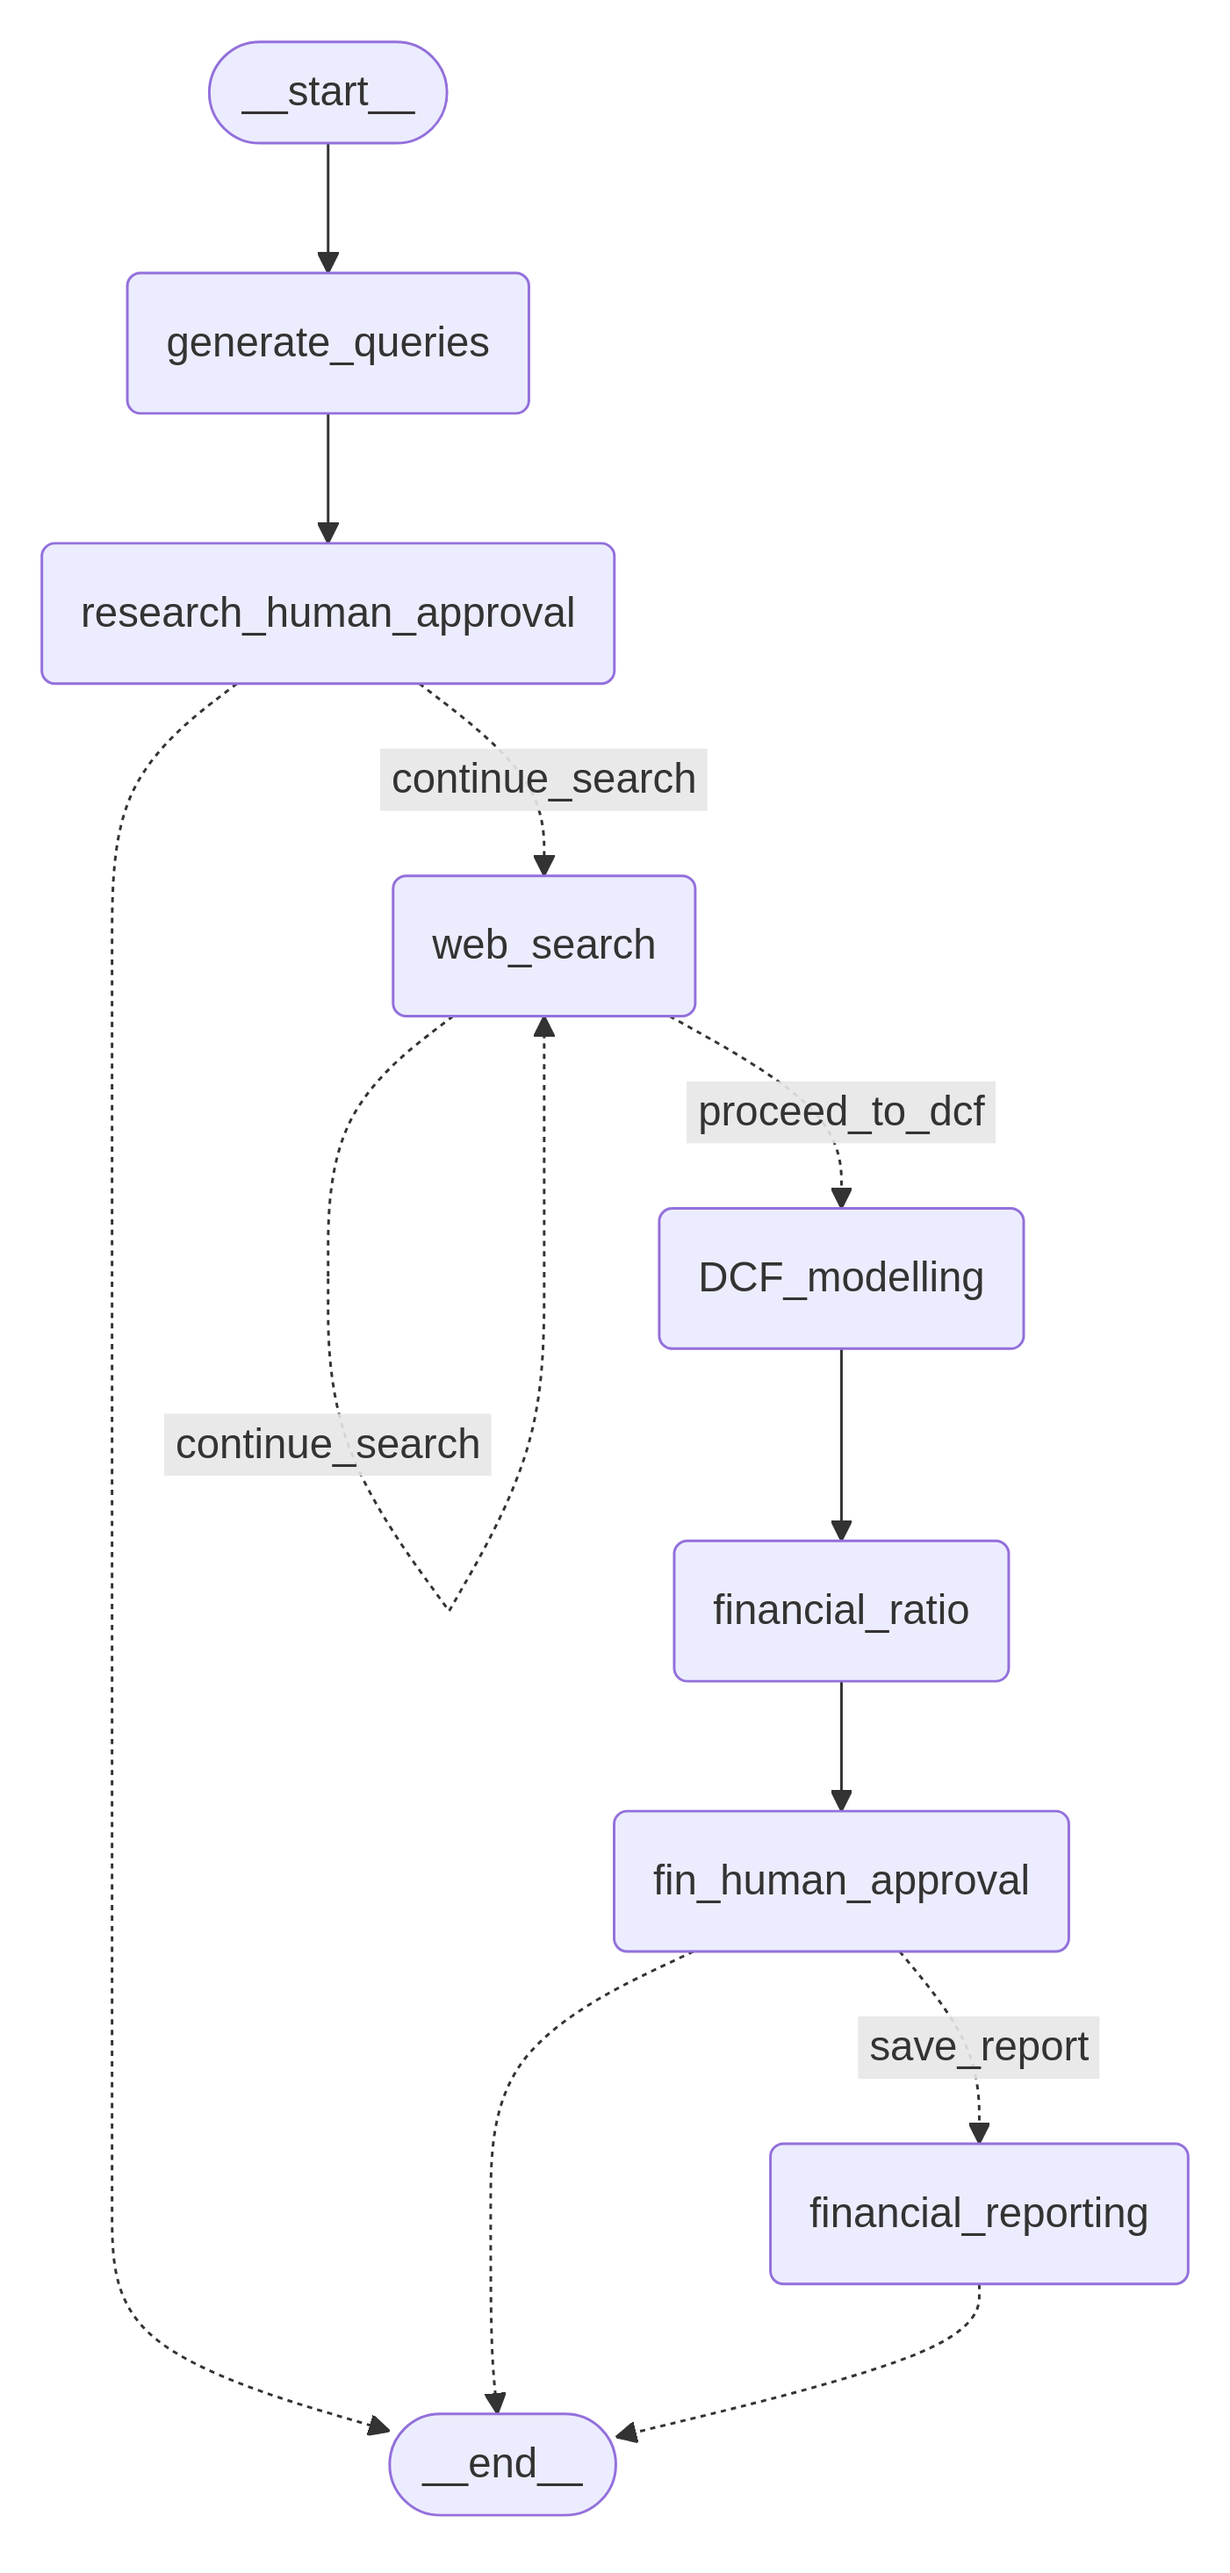
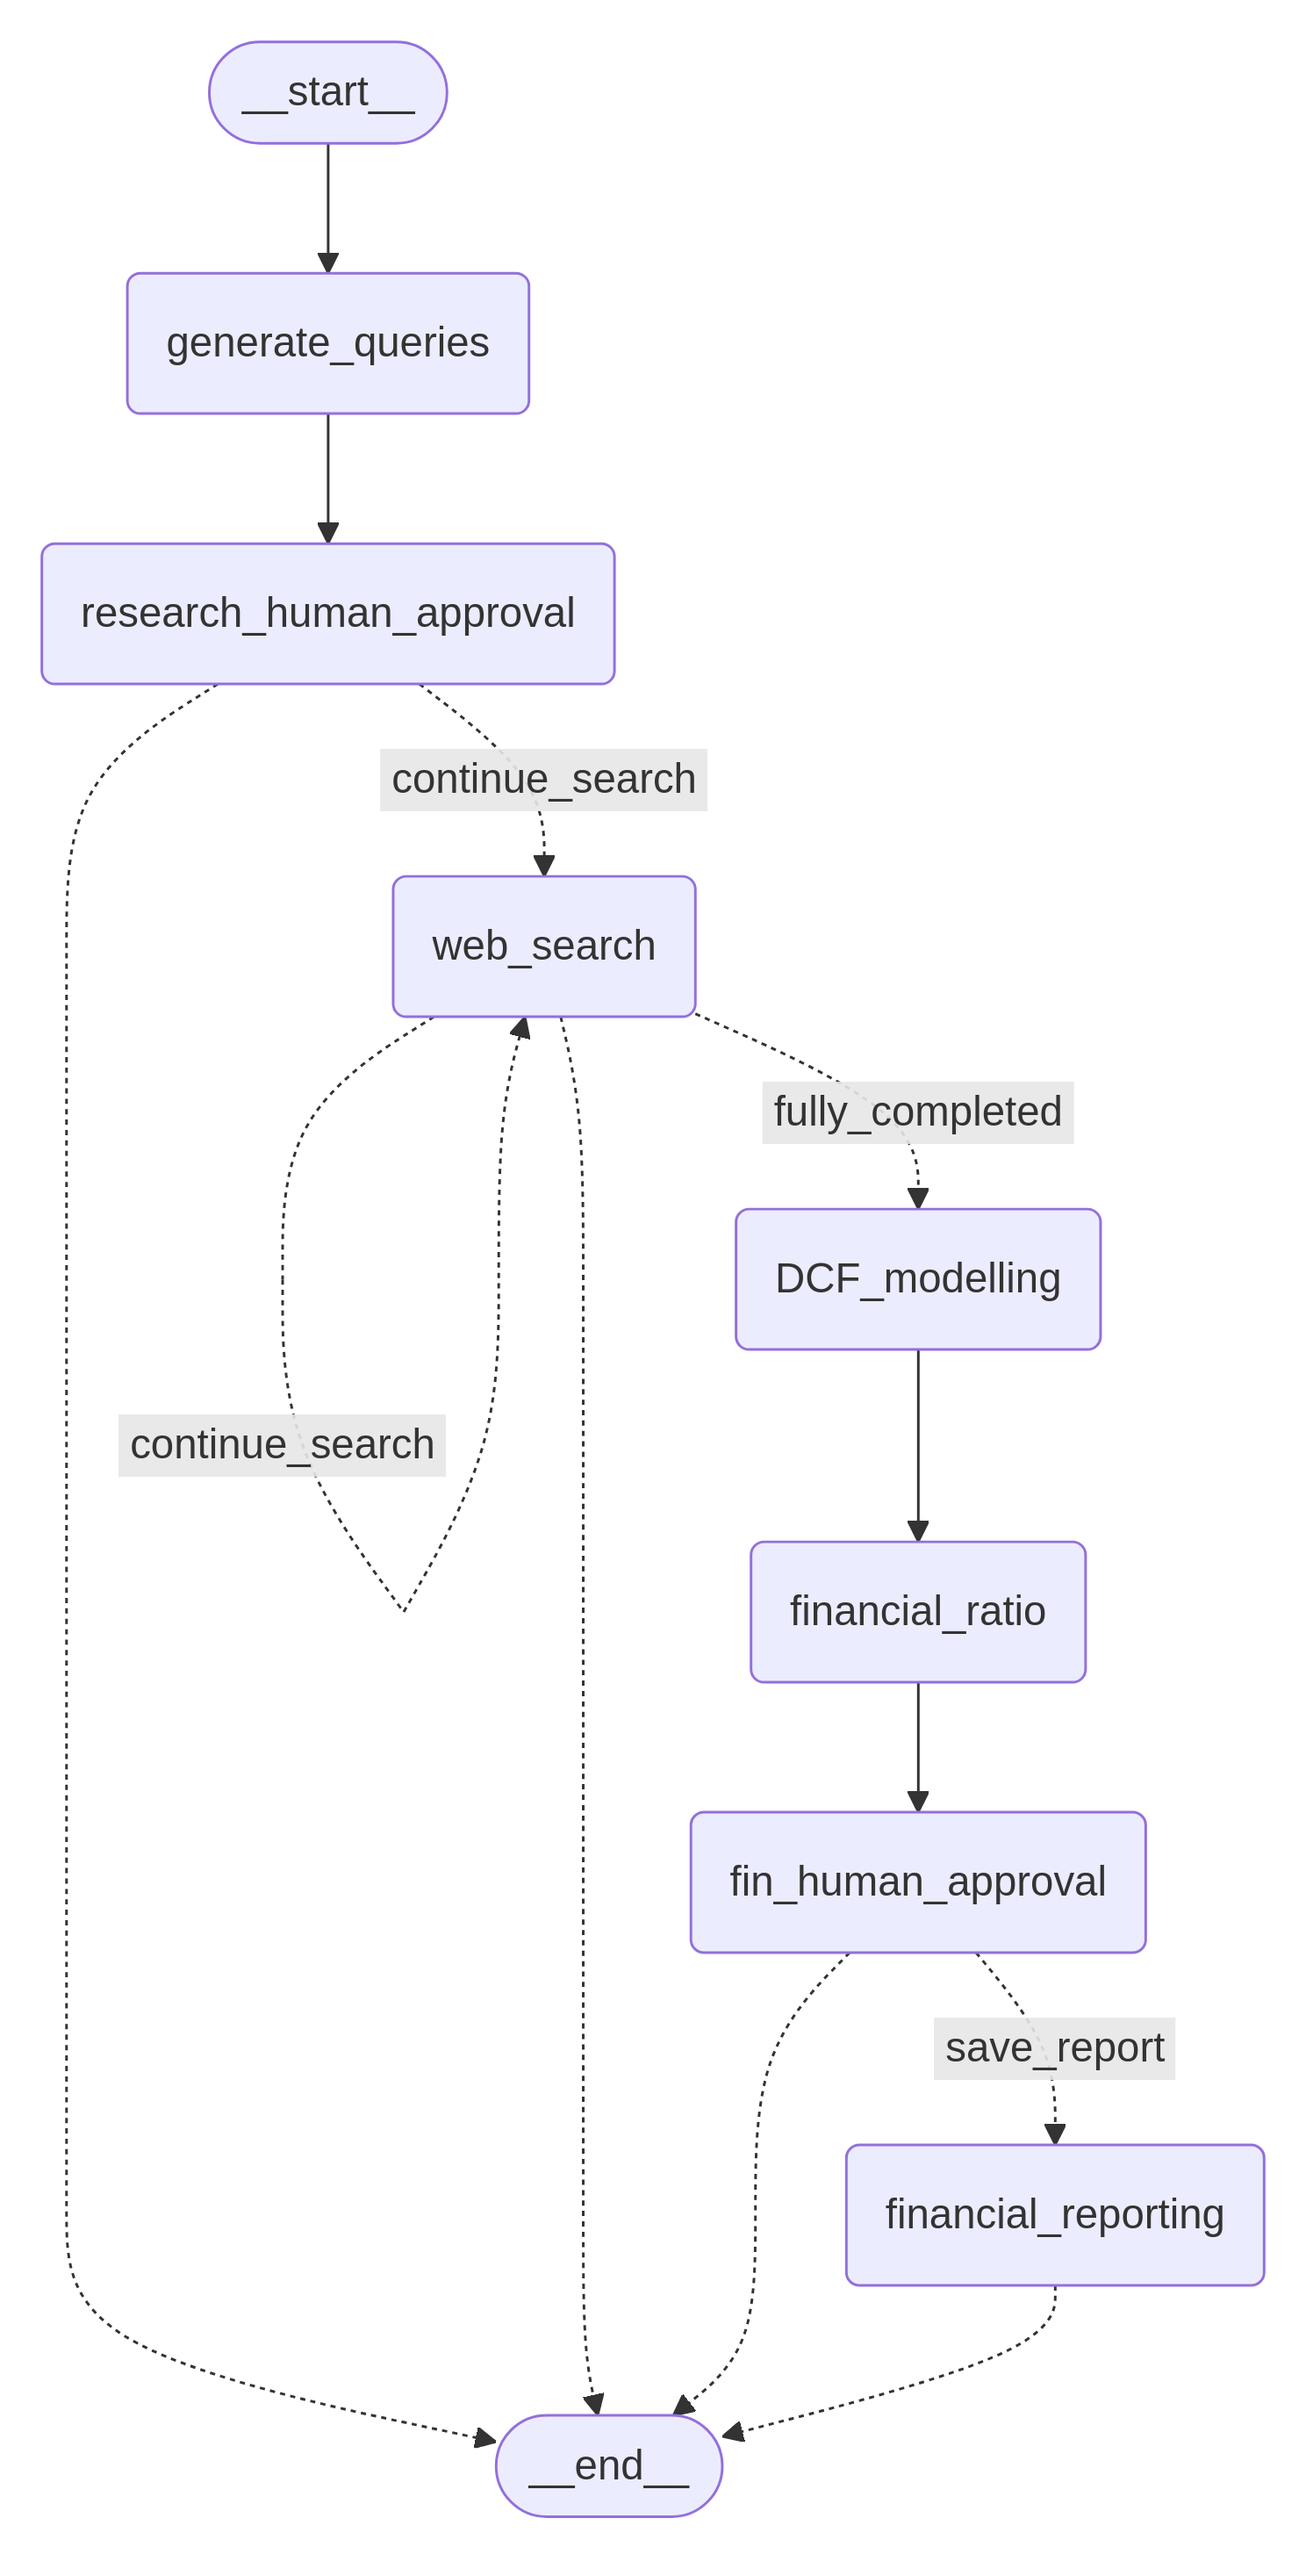
added Legal

diff --git a/agents/legal_agent.py b/agents/legal_agent.py
@@ -4,6 +4,10 @@ from agents.states import MnAagentState
 from datetime import datetime
 from RAG.rag_llama import RAG
 from utils.chat import Chat
+import yaml
+from langgraph.graph import StateGraph, END
+from langchain_core.runnables.graph import CurveStyle, MermaidDrawMethod, NodeStyles
+import os
 import logging
 # Configure logging
 logging.basicConfig(
@@ -23,17 +27,195 @@ class LegalAgentNodes:
         else:
             self.company_name = state.company_b_name
 
-    def take_legal_document(self):
-        pass
-    def risk_assessment(self):
-        # risk
-        pass
-    def reg_compliance(self):
-        # Financial Analysis
-        pass
-    def antitrust_checker(self):
-        # Financial Forecasting
-        pass
-    def negotiation_simulator(self):
-        # Financial Reporting
-        pass
+        current_dir = os.path.dirname(os.path.abspath(__file__))
+        project_root = os.path.dirname(current_dir)
+        prompts_path = os.path.join(project_root, "utils", "prompts.yaml")
+        with open(prompts_path, "r") as file:
+            self.prompts = yaml.safe_load(file)["Legal_Prompt"]
+        logger.info(f"Loaded prompts from {prompts_path}")
+
+    def take_legal_document(self, state: MnAagentState) -> MnAagentState:
+        while True:
+            try:
+                company_a_legal = input(f"Enter the path to the legal document for {state.company_a_name}: ")
+                company_b_legal = input(f"Enter the path to the legal document for {state.company_b_name}: ")
+                
+                # Validate file paths
+                if not os.path.exists(company_a_legal) or not os.path.exists(company_b_legal):
+                    print("Error: One or both document paths are invalid. Please try again.")
+                    continue
+                
+                company_docs = {
+                    f"{state.company_a_name}": f"{company_a_legal}",
+                    f"{state.company_b_name}": f"{company_b_legal}"
+                }
+                
+                rag_instances = {}
+                indexes = {}
+                retrievers = {}
+                
+                for company, text_path in company_docs.items():
+                    logger.info(f"Initializing RAG for {company} with document: {text_path}")
+                    rag_instances[company] = RAG(text_path)
+                    indexes[company] = rag_instances[company].create_db(db_name=str(company))
+                    retrievers[company] = indexes[company].as_retriever()
+                
+                state.indexes = indexes
+                state.retrievers = retrievers
+                state.rag_instances = rag_instances
+                
+                return state
+            
+            except Exception as e:
+                print(f"An error occurred: {e}")
+                retry = input("Do you want to try again? (yes/no): ").lower().strip()
+                if retry != 'yes':
+                    raise SystemExit("Document input cancelled by user.")
+
+    def risk_assessment(self, state: MnAagentState) -> MnAagentState:
+        # Existing risk assessment logic remains the same
+        state.current_step = "risk_assessment"
+        state.risk_assessment[self.company_name] = "Risk_assessment\n"
+        response = self.state.rag_instances[self.company_name].rag_query(
+            query_text=self.prompts["risk_message"],
+            retriever=self.state.retrievers[self.company_name]
+        )
+        state.risk_assessment[self.company_name] = state.risk_assessment[self.company_name].join(response["result"])
+        return state
+    
+    def antitrust_checker(self, state: MnAagentState) -> MnAagentState:
+        # antitrust
+        state.current_step = "anti_trust_assessment"
+        state.risk_check[self.company_name] = "Anti_Trust_assessment\n"
+        response = self.state.rag_instances[self.company_name].rag_query(query_text=self.prompts["anti_trust_message"],retriever=self.state.retrievers[self.company_name])
+        state.risk_check[self.company_name] = state.risk_check[self.company_name].join(response["result"])
+        return state
+    
+    def legal_report(self, state: MnAagentState) -> MnAagentState:
+        # legal report
+        try:
+            # Combine financial ratios and DCF models safely
+            combined_data = '\n'.join([
+                state.financial_ratios.get(self.company_name, ''),
+                state.dcf_models.get(self.company_name, '')
+            ])
+
+            rag_instances = RAG(combined_data)
+            
+            indexes = rag_instances.create_db(db_name=str(self.company_name))
+            retrievers = indexes.as_retriever()
+            
+            state.current_step = "Legal_reporting"
+            response = rag_instances.rag_query(
+                query_text=self.prompts["legal_report"],
+                retriever=retrievers
+            )
+            
+            # Assign report based on company
+            if self.company_name == state.company_a_name:
+                state.Legal_report_a  = response["result"]
+            else:
+                state.Legal_report_b = response["result"]
+            
+            output_dir = "report"
+            os.makedirs(output_dir, exist_ok=True)
+            output_path = os.path.join(output_dir, f"{self.company_name}_Legal_report.txt")
+            
+            with open(output_path, "w") as f:
+                f.write(response["result"])
+            
+            return state
+        
+        except Exception as e:
+            logger.error(f"Error in Legal reporting for {self.company_name}: {e}")
+            raise
+
+    def human_approval(self, state: MnAagentState) -> MnAagentState:
+        """
+        Ask human whether to proceed with search
+        """
+        proceed = input("\nDo you want to proceed with the report? (yes/no): ").lower().strip()
+        
+        if proceed == 'yes':
+            state.current_step = "human_approval_confirmed"
+            return state
+        
+        state.current_step = "human_approval_rejected"
+        return state
+    
+    def should_continue(self, state: MnAagentState) -> Any:
+        """
+        Determine if more queries need to be processed
+        """
+        return END
+    
+def create_legal_workflow(mn_agent_state: MnAagentState, company: str):
+    legal_agent = LegalAgentNodes(mn_agent_state, company)
+    workflow = StateGraph(MnAagentState)
+
+    workflow.add_node("take_legal_document", legal_agent.take_legal_document)
+    workflow.add_node("risk_assessment", legal_agent.risk_assessment)
+    workflow.add_node("antitrust_checker", legal_agent.antitrust_checker)
+    workflow.add_node("legal_report", legal_agent.legal_report)
+    workflow.add_node("human_approval", legal_agent.human_approval)
+    
+    # Modify edges to handle document input more robustly
+    workflow.set_entry_point("take_legal_document")
+    
+    # Add a conditional edge after document input to ensure valid documents
+    workflow.add_conditional_edges(
+        "take_legal_document", 
+        lambda state: "proceed" if state.rag_instances and len(state.rag_instances) == 2 else "retry",
+        {
+            "proceed": "risk_assessment",
+            "retry": "take_legal_document"
+        }
+    )
+    
+    # Rest of the workflow remains the same
+    workflow.add_edge("risk_assessment", "antitrust_checker")
+    workflow.add_edge("antitrust_checker", "legal_report")
+    workflow.add_edge("legal_report", "human_approval")
+    
+    workflow.add_conditional_edges(
+        "human_approval", 
+        lambda state: "finalize_report" if state.current_step == "human_approval_confirmed" else END,
+        {
+            "finalize_report": "legal_report",
+            END: END
+        }
+    )
+    
+    compiled_graph = workflow.compile()
+    
+    # Existing graph visualization code remains the same
+    try:
+        output_dir = "assets"
+        os.makedirs(output_dir, exist_ok=True)
+        output_path = os.path.join(output_dir, "legal_agent_graph.png")
+        graph_image = compiled_graph.get_graph().draw_mermaid_png(
+            curve_style=CurveStyle.LINEAR,
+            node_colors=NodeStyles(first="#ffdfba", last="#baffc9", default="#fad7de"),
+            wrap_label_n_words=9,
+            output_file_path=None,
+            draw_method=MermaidDrawMethod.PYPPETEER,
+            background_color="white",
+            padding=10
+        )
+        with open(output_path, "wb") as f:
+            f.write(graph_image)  
+        logger.info(f"Graph visualization saved to {output_path}")
+    except Exception as e:
+        logger.warning(f"Could not save graph visualization: {e}")
+    
+    return compiled_graph
+
+if __name__ == "__main__":
+    state = MnAagentState(
+        company_a_name="Company A",
+        company_b_name="Company B"
+    )
+    compiled_graph = create_legal_workflow(state, "a")
+    logger.info(f"Legal workflow graph created: {compiled_graph}")
+    compiled_graph = create_legal_workflow(state, "b")
+    logger.info(f"Legal workflow graph created: {compiled_graph}")

diff --git a/graph.py b/graph.py
@@ -22,7 +22,7 @@ logger = logging.getLogger(__name__)
 def create_comprehensive_workflow(mn_agent_state: MnAagentState, company: str):
     """
     Create and compile a comprehensive workflow combining research and financial analysis
-    with controlled transition from web search to DCF modeling
+    with guaranteed full completion of web search
     """
     # Initialize agent nodes
     research_agent = ResearchAgentNodes(mn_agent_state, company)
@@ -48,6 +48,7 @@ def create_comprehensive_workflow(mn_agent_state: MnAagentState, company: str):
     
     # Research Phase Edges
     workflow.add_edge("generate_queries", "research_human_approval")
+    
     workflow.add_conditional_edges(
         "research_human_approval",
         lambda state: "continue_search" if state.current_step == "human_approval_confirmed" else END,
@@ -57,19 +58,34 @@ def create_comprehensive_workflow(mn_agent_state: MnAagentState, company: str):
         }
     )
     
-    # Conditional edges for web search with controlled transition to DCF
+    def web_search_condition(state):
+        search_result = research_agent.should_continue(state)
+        if not hasattr(state, 'search_iterations'):
+            state.search_iterations = 0
+        state.search_iterations += 1
+        
+        # Add a max recursion limit (e.g., 3 iterations)
+        if state.search_iterations >= 26:
+            return "fully_completed"
+        
+        if search_result == END and state.search_iterations > 0:
+            return "fully_completed"
+        
+        return search_result
+
     workflow.add_conditional_edges(
         "web_search",
-        lambda state: "continue_search" if research_agent.should_continue(state) == "continue_search" else "proceed_to_dcf",
+        web_search_condition,
         {
             "continue_search": "web_search",
-            "proceed_to_dcf": "DCF_modelling"
+            "fully_completed": "DCF_modelling",
+            END: END  # Change this to prevent bypassing the workflow
         }
     )
     
-    # Financial Analysis Edges
     workflow.add_edge("DCF_modelling", "financial_ratio")
     workflow.add_edge("financial_ratio", "fin_human_approval")
+    
     workflow.add_conditional_edges(
         "fin_human_approval",
         lambda state: "save_report" if state.current_step == "human_approval_confirmed" else END,
@@ -78,6 +94,7 @@ def create_comprehensive_workflow(mn_agent_state: MnAagentState, company: str):
             END: END
         }
     )
+    
     workflow.add_conditional_edges(
         "financial_reporting",
         lambda state: END,
@@ -89,7 +106,7 @@ def create_comprehensive_workflow(mn_agent_state: MnAagentState, company: str):
     # Compile the graph
     compiled_graph = workflow.compile()
     
-    # Graph visualization (same as previous implementations)
+    # Graph visualization
     try:
         output_dir = "assets"
         os.makedirs(output_dir, exist_ok=True)

diff --git a/agents/states.py b/agents/states.py
@@ -38,6 +38,9 @@ class MnAagentState(BaseModel):
     queries: List[str] = Field(default_factory=list, description="Queries for each company")
     dcf_models: Dict[str, Any] = Field(default_factory=dict, description="Discounted Cash Flow models for each company")
     financial_ratios: Dict[str, Any] = Field(default_factory=dict, description="Financial ratios for each company")
+    search_iterations: int = Field(default=0, description="Current search iteration")
+    risk_check: Dict[str, Any] = Field(default_factory=dict, description="Risk assessment for each company")
+    antitrust_assessment: Dict[str, Any] = Field(default_factory=dict, description="Antitrust assessment for each company")
     model_config = ConfigDict(
         arbitrary_types_allowed=True  # Add this line
     )
